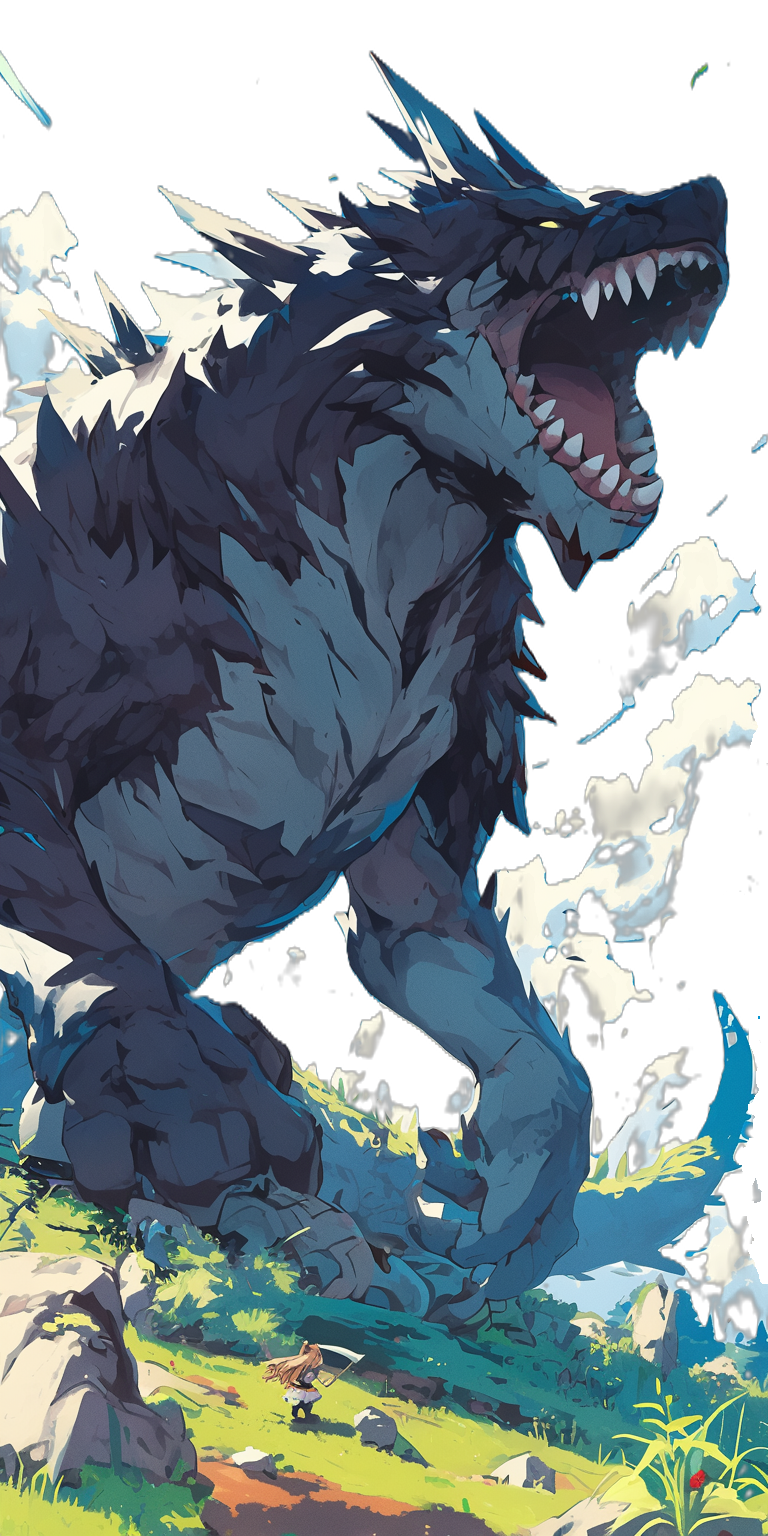
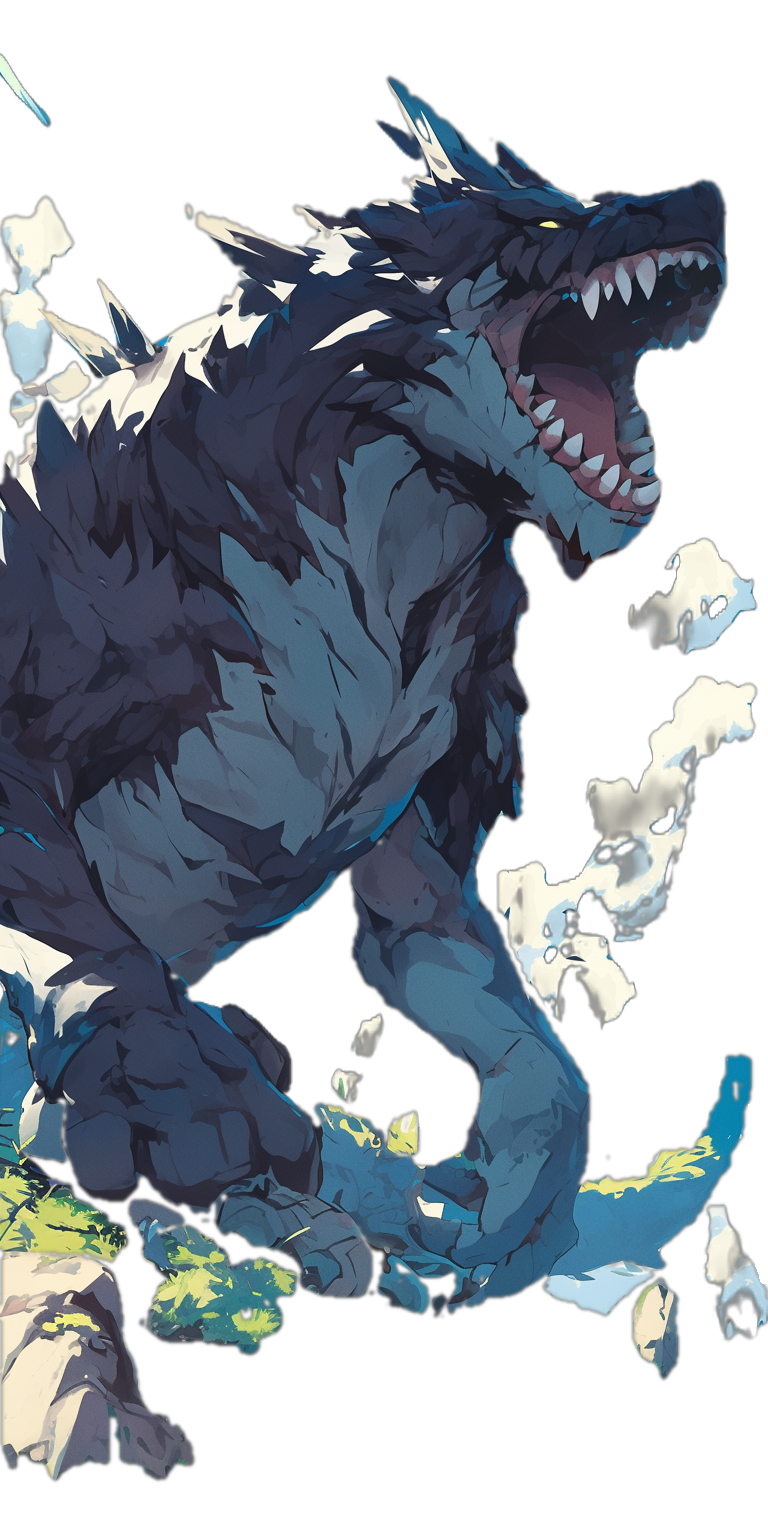
Add Font Awesome SVG core dependency, update footer layout, and enhance home component with decorative elements

diff --git a/LEXITERA_PROJECT/src/components/MusicButton.jsx b/LEXITERA_PROJECT/src/components/MusicButton.jsx
@@ -1,5 +1,19 @@
 import React, { useRef, useEffect, useState } from "react";
 
+// Icona custom per audio OFF
+function StreamlineMusicNoteOff2Solid(props) {
+  return (
+    <svg xmlns="http://www.w3.org/2000/svg" width={20} height={20} viewBox="0 0 14 14" {...props}>
+      <path
+        fill="currentColor"
+        fillRule="evenodd"
+        d="M.22 1.28A.75.75 0 0 1 1.28.22L3.9 2.838c.158-.187.37-.322.607-.387L12.083.35a1.217 1.217 0 0 1 1.534 1.168v7.185q.006.087.006.174c0 .997-.592 1.855-1.443 2.243l1.6 1.6a.75.75 0 1 1-1.06 1.061zm8.697 6.577A2.463 2.463 0 0 1 12.13 6.61V4.153L6.731 5.67zM3.61 9.06V6.243L5.097 7.73v3.42q.006.086.006.174A2.463 2.463 0 1 1 3.609 9.06"
+        clipRule="evenodd"
+      ></path>
+    </svg>
+  );
+}
+
 const MusicButton = () => {
   const audioRef = useRef(null);
   const [playing, setPlaying] = useState(() => {
@@ -41,21 +55,16 @@ const MusicButton = () => {
     <>
       <button onClick={toggleAudio} className="music-button" aria-label={playing ? "Pausa musica" : "Riproduci musica"}>
         {playing ? (
-          // Chiave di sol
-          <svg xmlns="http://www.w3.org/2000/svg" viewBox="0 0 640 640" width="25" height="25">
+          // Icona custom per musica accesa
+          <svg xmlns="http://www.w3.org/2000/svg" viewBox="0 0 640 640" width="30" height="30">
             <path
-              d="M492.5 104.3L268.5 154.1C261.2 155.7 256 162.2 256 169.7L256 244.1L512 187.2L512 119.9C512 109.7 502.5 102.1 492.5 104.3zM512 340.4L512 220L256 276.9L256 464.1C256 508.3 213 544.1 160 544.1C107 544.1 64 508.3 64 464.1C64 419.9 107 384.1 160 384.1C184.6 384.1 207 391.8 224 404.5L224 169.8C224 147.3 239.6 127.8 261.6 122.9L485.6 73C515.6 66.3 544 89.1 544 119.9L544 400C544 444.2 501 480 448 480C395 480 352 444.2 352 400C352 355.8 395 320 448 320C472.6 320 495 327.7 512 340.4zM512 400C512 373.5 483.3 352 448 352C412.7 352 384 373.5 384 400C384 426.5 412.7 448 448 448C483.3 448 512 426.5 512 400zM224 464C224 437.5 195.3 416 160 416C124.7 416 96 437.5 96 464C96 490.5 124.7 512 160 512C195.3 512 224 490.5 224 464z"
-              fill="#000000ff"
+              d="M532 71C539.6 77.1 544 86.3 544 96L544 400C544 444.2 501 480 448 480C395 480 352 444.2 352 400C352 355.8 395 320 448 320C459.2 320 470 321.6 480 324.6L480 207.9L256 257.7L256 464C256 508.2 213 544 160 544C107 544 64 508.2 64 464C64 419.8 107 384 160 384C171.2 384 182 385.6 192 388.6L192 160C192 145 202.4 132 217.1 128.8L505.1 64.8C514.6 62.7 524.5 65 532.1 71.1z"
+              fill="#ffffffff"
             />
           </svg>
         ) : (
-          // Tasto pausa
-          <svg xmlns="http://www.w3.org/2000/svg" viewBox="0 0 640 640" width="25" height="25">
-            <path
-              d="M320 112C434.9 112 528 205.1 528 320C528 434.9 434.9 528 320 528C205.1 528 112 434.9 112 320C112 205.1 205.1 112 320 112zM320 576C461.4 576 576 461.4 576 320C576 178.6 461.4 64 320 64C178.6 64 64 178.6 64 320C64 461.4 178.6 576 320 576zM288 248C288 234.7 277.3 224 264 224C250.7 224 240 234.7 240 248L240 392C240 405.3 250.7 416 264 416C277.3 416 288 405.3 288 392L288 248zM400 248C400 234.7 389.3 224 376 224C362.7 224 352 234.7 352 248L352 392C352 405.3 362.7 416 376 416C389.3 416 400 405.3 400 392L400 248z"
-              fill="#ffd650ff"
-            />
-          </svg>
+          // Icona custom audio OFF
+          <StreamlineMusicNoteOff2Solid style={{ color: "#ffffffff" }} />
         )}
       </button>
       <audio ref={audioRef} src="src/assets/media/audio/videoplayback.mp3" autoPlay loop style={{ display: "none" }} />

diff --git a/LEXITERA_PROJECT/src/components/footer.jsx b/LEXITERA_PROJECT/src/components/footer.jsx
@@ -4,49 +4,86 @@ import logo from "../assets/media/IMG/lexitera_LOGO.png";
 const footerStyle = {
   background: "#111111ff",
   color: "#fff",
-  padding: "32px 0 16px 0",
+  padding: "32px 0 35px 0",
   textAlign: "center",
   marginTop: "0px",
+  fontFamily: "Roboto, Arial, sans-serif",
+  fontWeight: "400",
+  boxShadow: "0 -2px 8px #0008",
 };
 
 const linkStyle = {
   color: "#fff",
   margin: "0 12px",
   textDecoration: "none",
-  fontWeight: "500",
-  fontSize: "1rem",
+  fontSize: "0.9rem",
 };
 
 const Footer = () => (
   <footer style={footerStyle}>
-    <img
-      src={logo}
-      alt="Lexitera Logo"
+    <div
       style={{
-        height: "120px",
-        marginRight: "8px",
-        verticalAlign: "middle",
-        filter: "drop-shadow(0 2px 8px #0008)",
+        display: "flex",
+        flexDirection: "row",
+        alignItems: "center",
+        justifyContent: "center",
+        gap: "0",
+        flexWrap: "wrap",
+        width: "100%",
+        marginBottom: "12px",
       }}
-    />
-    <div style={{ display: "flex", alignItems: "center", justifyContent: "center", gap: "18px", flexWrap: "wrap", marginTop: "12px" }}>
-      <a href="#privacy" style={linkStyle}>
-        Privacy Policy
-      </a>
-      <a href="#terms" style={linkStyle}>
-        Termini di servizio
-      </a>
-      <a href="#about" style={linkStyle}>
-        Chi siamo
-      </a>
-      <a href="#contact" style={linkStyle}>
-        Contatti
-      </a>
-      <a href="#help" style={linkStyle}>
-        Centro assistenza
-      </a>
+    >
+      <div
+        style={{
+          flex: "0 0 50%",
+          maxWidth: "50%",
+          display: "flex",
+          alignItems: "center",
+          justifyContent: "right",
+          minWidth: "120px",
+        }}
+      >
+        <img
+          src={logo}
+          alt="Lexitera Logo"
+          style={{
+            height: "160px",
+
+            verticalAlign: "middle",
+            filter: "drop-shadow(0 2px 8px #0008)",
+          }}
+        />
+      </div>
+      <div
+        style={{
+          flex: "0 0 50%",
+          maxWidth: "50%",
+          display: "flex",
+          flexDirection: "column",
+          alignItems: "start",
+          justifyContent: "left",
+          gap: "12px",
+          minWidth: "220px",
+        }}
+      >
+        <a href="#privacy" style={linkStyle}>
+          Privacy Policy
+        </a>
+        <a href="#terms" style={linkStyle}>
+          Termini di servizio
+        </a>
+        <a href="#about" style={linkStyle}>
+          Chi siamo
+        </a>
+        <a href="#contact" style={linkStyle}>
+          Contatti
+        </a>
+        <a href="#help" style={linkStyle}>
+          Centro assistenza
+        </a>
+      </div>
     </div>
-    <div style={{ marginTop: "12px", fontSize: "0.95rem", opacity: 0.7 }}>© {new Date().getFullYear()} Lexitera. Tutti i diritti riservati.</div>
+    <div style={{ marginTop: "15px", fontSize: "0.95rem", opacity: 0.7 }}>© {new Date().getFullYear()} Lexitera. Tutti i diritti riservati.</div>
   </footer>
 );
 

diff --git a/LEXITERA_PROJECT/src/components/home.jsx b/LEXITERA_PROJECT/src/components/home.jsx
@@ -19,6 +19,34 @@ const Home = () => {
         position: "relative",
       }}
     >
+      {/* Div decorativi ai lati*/}
+      <div
+        style={{
+          position: "fixed",
+          top: 0,
+          right: 0,
+          width: "400px",
+          height: "100vh",
+          background: "url('src/assets/media/animal/feral.trasp.PNG') left center/contain no-repeat",
+
+          zIndex: 10,
+          pointerEvents: "none",
+        }}
+        aria-hidden="true"
+      />
+      <div
+        style={{
+          position: "fixed",
+          top: 0,
+          left: 0,
+          width: "400px",
+          height: "100vh",
+          background: "url('src/assets/media/animal/gigant_saur.trasp.PNG') right center/contain no-repeat",
+          zIndex: 10,
+          pointerEvents: "none",
+        }}
+        aria-hidden="true"
+      />
       {/* Spazio per spostare la navbar più in basso */}
       <div style={{ height: "35px" }}></div>
       <CustomNavbar expand="lg" fixed="top" />

diff --git a/LEXITERA_PROJECT/src/components/main_home.jsx b/LEXITERA_PROJECT/src/components/main_home.jsx
@@ -292,7 +292,7 @@ const MainHome = () => {
             style={{
               width: "50%",
               height: "200px",
-              borderRadius: "5px",
+              borderRadius: "15px",
               position: "relative",
               display: "flex",
               alignItems: "flex-end",
